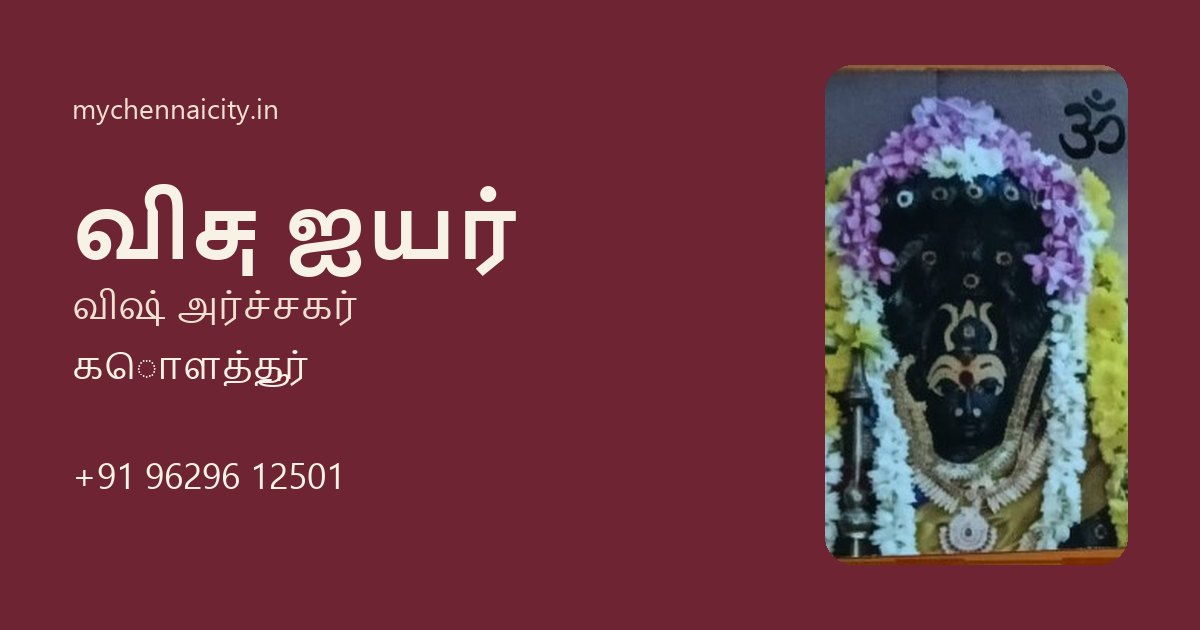
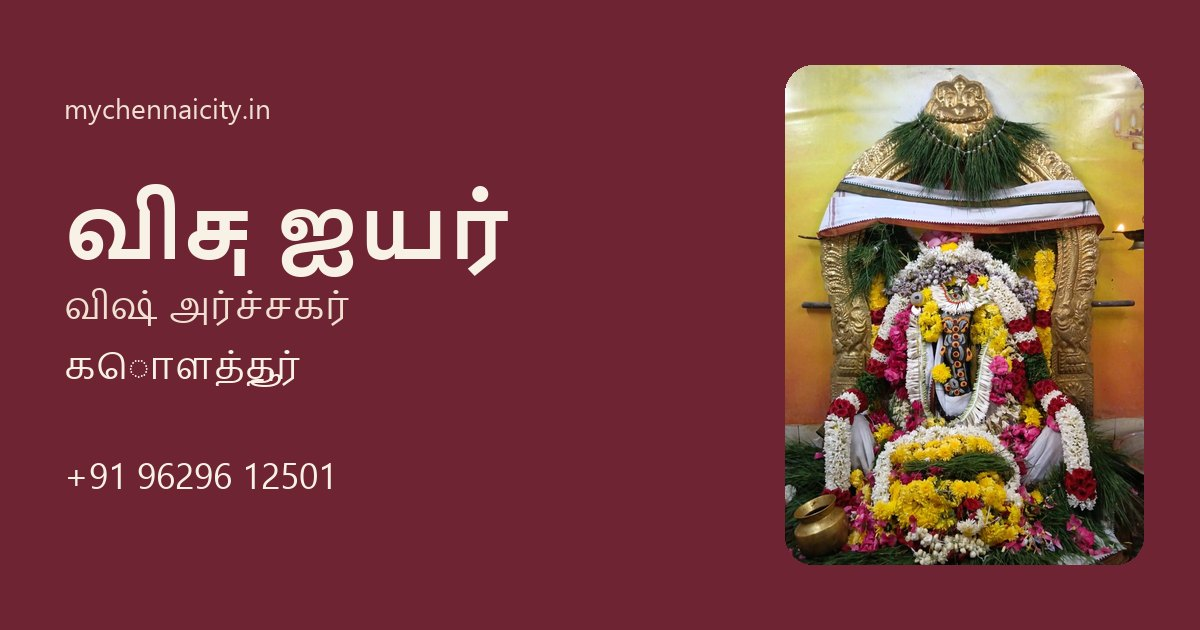
Use the shrine photographs on Visu Iyer's listing.
The three photos he sent replace the soft card crops on the hero, the pooja section, and the Kolathur altar.

diff --git a/src/components/business-profiles/visu-iyer-kolathur-profile.tsx b/src/components/business-profiles/visu-iyer-kolathur-profile.tsx
@@ -5,8 +5,9 @@ import {
   VISU_IYER_PHONE_DISPLAY,
   VISU_IYER_PHONE_TEL,
   VISU_IYER_POOJAS,
-  VISU_IYER_PORTRAIT_BACK,
-  VISU_IYER_PORTRAIT_FRONT,
+  VISU_IYER_SHRINE_FACE,
+  VISU_IYER_SHRINE_FLOWERS,
+  VISU_IYER_SHRINE_WIDE,
   VISU_IYER_WHATSAPP_HREF,
 } from "@/content/business-profiles/visu-iyer-kolathur";
 import styles from "./visu-iyer-kolathur-profile.module.css";
@@ -75,12 +76,12 @@ export function VisuIyerKolathurProfile({ className }: Props) {
           <div className={styles.heroVisual}>
             <div className={styles.heroFrame}>
               <Image
-                src={VISU_IYER_PORTRAIT_FRONT}
-                alt="விசு ஐயரின் அட்டையில் உள்ள பூஜைப் படம்"
+                src={VISU_IYER_SHRINE_FLOWERS}
+                alt="மலர் அலங்காரத்தில் பூஜை விக்கிரகம்"
                 fill
                 priority
                 sizes="(max-width: 800px) 92vw, 420px"
-                className={styles.cover}
+                className={styles.coverHero}
               />
             </div>
             <ul className={styles.chips}>
@@ -95,11 +96,11 @@ export function VisuIyerKolathurProfile({ className }: Props) {
           <div className={styles.stage}>
             <div className={styles.stageFrame}>
               <Image
-                src={VISU_IYER_PORTRAIT_BACK}
-                alt="விசு ஐயரின் அட்டையில் உள்ள இரண்டாவது பூஜைப் படம்"
+                src={VISU_IYER_SHRINE_FACE}
+                alt="மலர் மாலையுடன் பூஜை விக்கிரகம்"
                 fill
-                sizes="(max-width: 800px) 70vw, 240px"
-                className={styles.cover}
+                sizes="(max-width: 800px) 80vw, 340px"
+                className={styles.coverFace}
               />
             </div>
           </div>
@@ -151,25 +152,14 @@ export function VisuIyerKolathurProfile({ className }: Props) {
               </li>
             </ul>
           </div>
-          <div className={styles.bubbles}>
-            <div className={styles.bubble}>
-              <Image
-                src={VISU_IYER_PORTRAIT_FRONT}
-                alt=""
-                fill
-                sizes="180px"
-                className={styles.cover}
-              />
-            </div>
-            <div className={styles.bubble}>
-              <Image
-                src={VISU_IYER_PORTRAIT_BACK}
-                alt=""
-                fill
-                sizes="180px"
-                className={styles.cover}
-              />
-            </div>
+          <div className={styles.shrine}>
+            <Image
+              src={VISU_IYER_SHRINE_WIDE}
+              alt="பூஜை அலங்காரம், கொளத்தூர்"
+              fill
+              sizes="(max-width: 800px) 92vw, 480px"
+              className={styles.coverWide}
+            />
           </div>
         </section>
 

diff --git a/src/components/business-profiles/visu-iyer-kolathur-profile.module.css b/src/components/business-profiles/visu-iyer-kolathur-profile.module.css
@@ -185,8 +185,7 @@
 }
 
 .heroFrame,
-.stageFrame,
-.bubble {
+.stageFrame {
   position: relative;
   overflow: hidden;
 }
@@ -197,8 +196,22 @@
   background: #4a2c30;
 }
 
-.cover {
+.coverHero,
+.coverFace,
+.coverWide {
   object-fit: cover;
+}
+
+.coverHero {
+  object-position: center 46%;
+}
+
+.coverFace {
+  object-position: center 28%;
+}
+
+.coverWide {
+  object-position: center 40%;
 }
 
 .chips {
@@ -239,18 +252,17 @@
 
 .stage {
   display: flex;
-  align-items: flex-end;
+  align-items: center;
   justify-content: center;
-  min-height: 380px;
-  padding: 36px 28px 0;
+  padding: 28px;
   border-radius: 28px;
   background: #1c1917;
 }
 
 .stageFrame {
-  width: min(100%, 240px);
-  aspect-ratio: 4 / 5;
-  border-radius: 18px 18px 0 0;
+  width: min(100%, 340px);
+  aspect-ratio: 3 / 4;
+  border-radius: 18px;
 }
 
 .rows,
@@ -317,21 +329,12 @@
   margin-top: 18px;
 }
 
-.bubbles {
-  display: grid;
-  grid-template-columns: minmax(0, 1fr) minmax(0, 1fr);
-  gap: 16px;
-  align-items: center;
-  min-height: 280px;
-  padding: 28px;
+.shrine {
+  position: relative;
+  overflow: hidden;
+  aspect-ratio: 3 / 4;
   border-radius: 28px;
-  background: var(--sand);
-}
-
-.bubble {
-  aspect-ratio: 1;
-  border-radius: 999px;
-  background: #4a2c30;
+  background: #3a2426;
 }
 
 .band {

diff --git a/src/lib/seo/visu-iyer-kolathur.ts b/src/lib/seo/visu-iyer-kolathur.ts
@@ -2,8 +2,9 @@ import {
   VISU_IYER_OG_IMAGE,
   VISU_IYER_PHONE_DISPLAY,
   VISU_IYER_PHONE_E164,
-  VISU_IYER_PORTRAIT_BACK,
-  VISU_IYER_PORTRAIT_FRONT,
+  VISU_IYER_SHRINE_FACE,
+  VISU_IYER_SHRINE_FLOWERS,
+  VISU_IYER_SHRINE_WIDE,
   VISU_IYER_PROFILE_PATH,
 } from "@/content/business-profiles/visu-iyer-kolathur";
 import { getSiteUrl } from "@/lib/env";
@@ -68,7 +69,12 @@ export function buildVisuIyerJsonLd() {
     name: "Visu Iyer",
     alternateName: "விசு ஐயர்",
     url: pageUrl,
-    image: [`${base}${VISU_IYER_PORTRAIT_FRONT}`, `${base}${VISU_IYER_PORTRAIT_BACK}`, image],
+    image: [
+      `${base}${VISU_IYER_SHRINE_FLOWERS}`,
+      `${base}${VISU_IYER_SHRINE_FACE}`,
+      `${base}${VISU_IYER_SHRINE_WIDE}`,
+      image,
+    ],
     telephone: VISU_IYER_PHONE_E164,
     description: DESCRIPTION,
     areaServed: [

diff --git a/docs/AGENT_LEARNINGS_AND_SOPS.md b/docs/AGENT_LEARNINGS_AND_SOPS.md
@@ -225,6 +225,7 @@ Three layers — do **not** paste one-off partner markup on a page:
 
 ## 6. Changelog
 
+- **2026-10-28:** Visu Iyer listing photos replaced with the three shrine photographs he sent (flower shrine, close portrait, full altar). Card crops are no longer on the page.
 - **2026-10-28:** Paid business listing — **Visu Iyer** (விஷ் அர்ச்சகர்), Kolathur, ₹365. Standalone page `/business-profile/visu-iyer-kolathur`. Card phone +91 96296 12501. Services are the printed muhurtham, marriage, griha pravesam, Ganapati / Lakshmi / Kubera / Navagraha / Durga homams, and other poojas. Invocation: Sri Varasakthi Vinayagar and Sri Bhavani Amman, Kolathur. No street, no dakshina, no end date (paid-on date not on the card). Portraits cropped from the card. Footer line points at `/contact#advertise`. AdSense script is skipped on `/business-profile`. **Rule:** SOP N.
 - **2026-10-27:** Classifieds — **3.5 BHK luxury apartments for sale**, Radha Nagar, Chromepet (new build; stilt parking; 6 flats, 2 available; 1st and 2nd floor north facing; 1,700 sq ft plinth; 3 BHK + study; furnished; ₹9,000/sq ft negotiable; Metro Water + 2 borewells; Chromepet station ~1.5 km; WhatsApp 91766 91715) via `db:seed:luxury-apartments-radha-nagar-chromepet(:live)` → `/chennai-classifieds/luxury-apartments-sale-radha-nagar-chromepet-october-2026`. Poster `public/images/classifieds/luxury-apartments-radha-nagar-chromepet-october-2026.jpg`. **Rule:** one `property` row for the sale flyer; keep the printed phone in the body; do not invent a builder name or a total sale price beyond the per-sq-ft rate; poster is not on the live CDN until deployed.
 - **2026-10-27:** Jobs — business development executives, two domains on one resume desk (health tech AI software for doctors, hospitals, clinics, and patients, salary plus incentives with no figure; digital news media company for news bulletin and local opinions, flat 30% commission; company legal names, city, street, job type, and seat count unstated; email `sv@cytozon.com`; WhatsApp string `635157567`, nine digits) via `db:seed:chennai-job:cytozon-bde(:live)` → `/chennai-jobs/business-development-executive-health-tech-digital-news-cytozon`. Apply button is `mailto:sv@cytozon.com`. Public site [cytozon.com](https://cytozon.com) lists Cytozon Technologies at #179, Kothari Nagar, Singanallur, Coimbatore 641005; the note does not place the seats there. **Rule:** keep both domains on one listing; leave JobPosting salary and employment type undisclosed; do not treat the domain descriptions as legal names; do not pad a nine-digit string into `wa.me` or `tel:`; a `mailto:` apply URL should label the button “Email your resume”. The button label is in the job page code and is not on the live CDN until this change is deployed.
